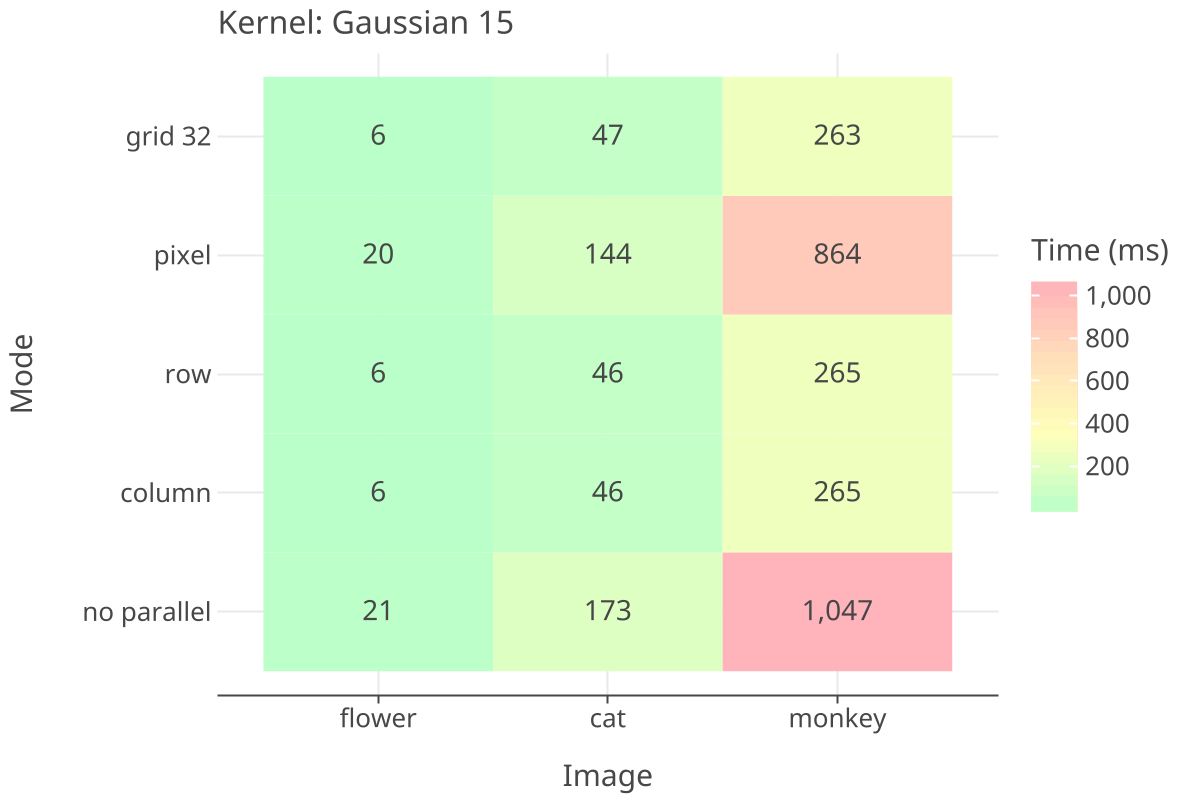
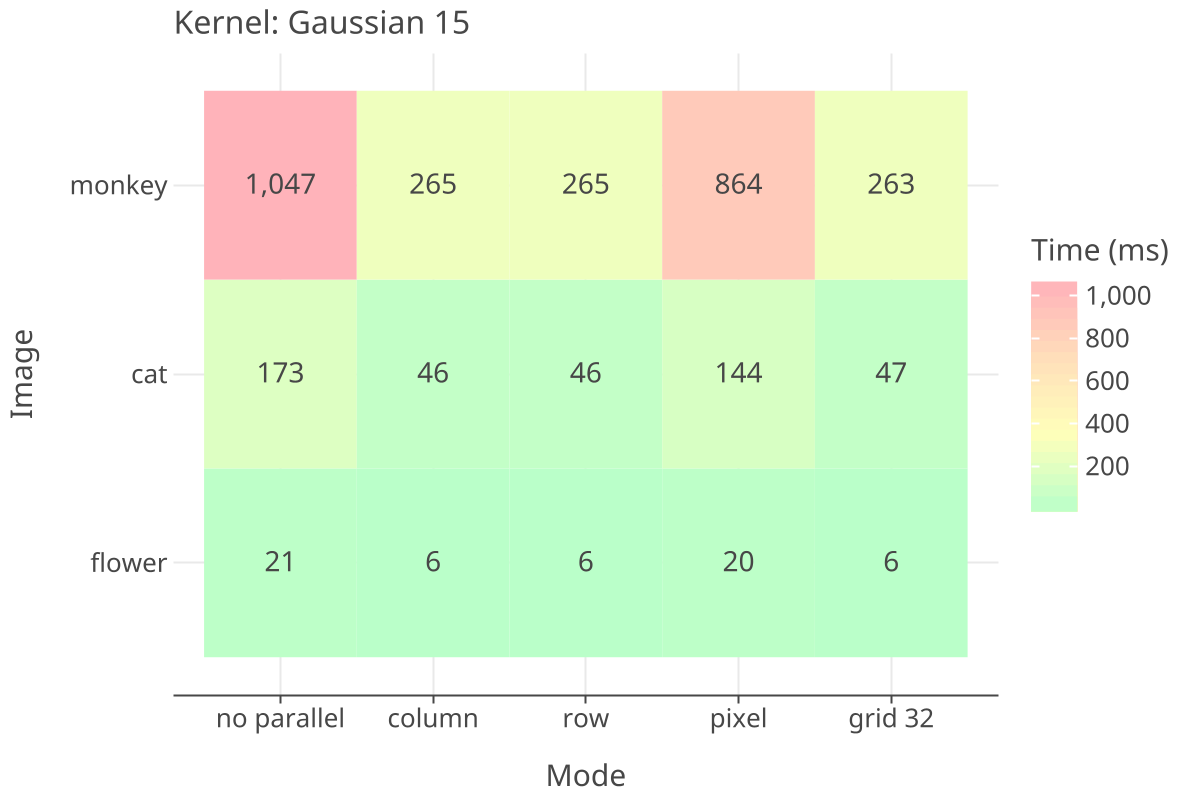
fix: flip axis

diff --git a/src/main/kotlin/benchmark/PlotGenerator.kt b/src/main/kotlin/benchmark/PlotGenerator.kt
@@ -52,10 +52,10 @@ fun plotBenchmark(file: File) {
 
         val p = ggplot(filteredData) +
                 geomTile {
-                    x = "Image"; y = "Mode"; fill = "Time"
+                    x = "Mode"; y = "Image"; fill = "Time"
                 } +
                 geomText {
-                    x = "Image"; y = "Mode"; label = "Time"
+                    x = "Mode"; y = "Image"; label = "Time"
                 } +
                 scaleFillGradientN(
                     colors = listOf("#baffc9", "#ffffba", "#ffdfba", "#ffb3ba")
